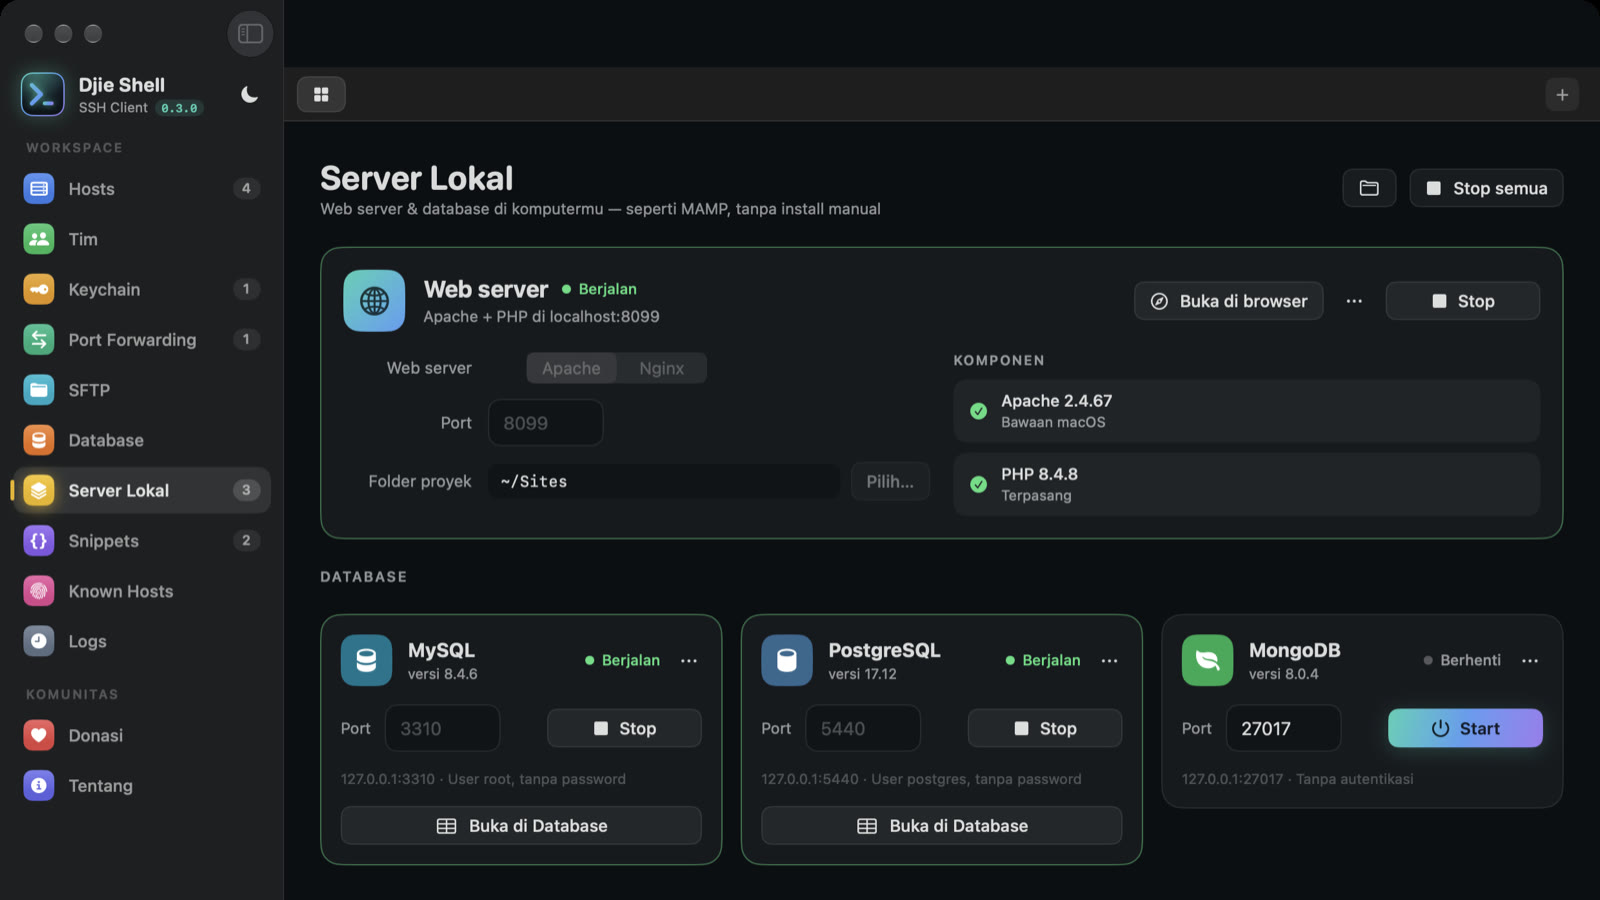
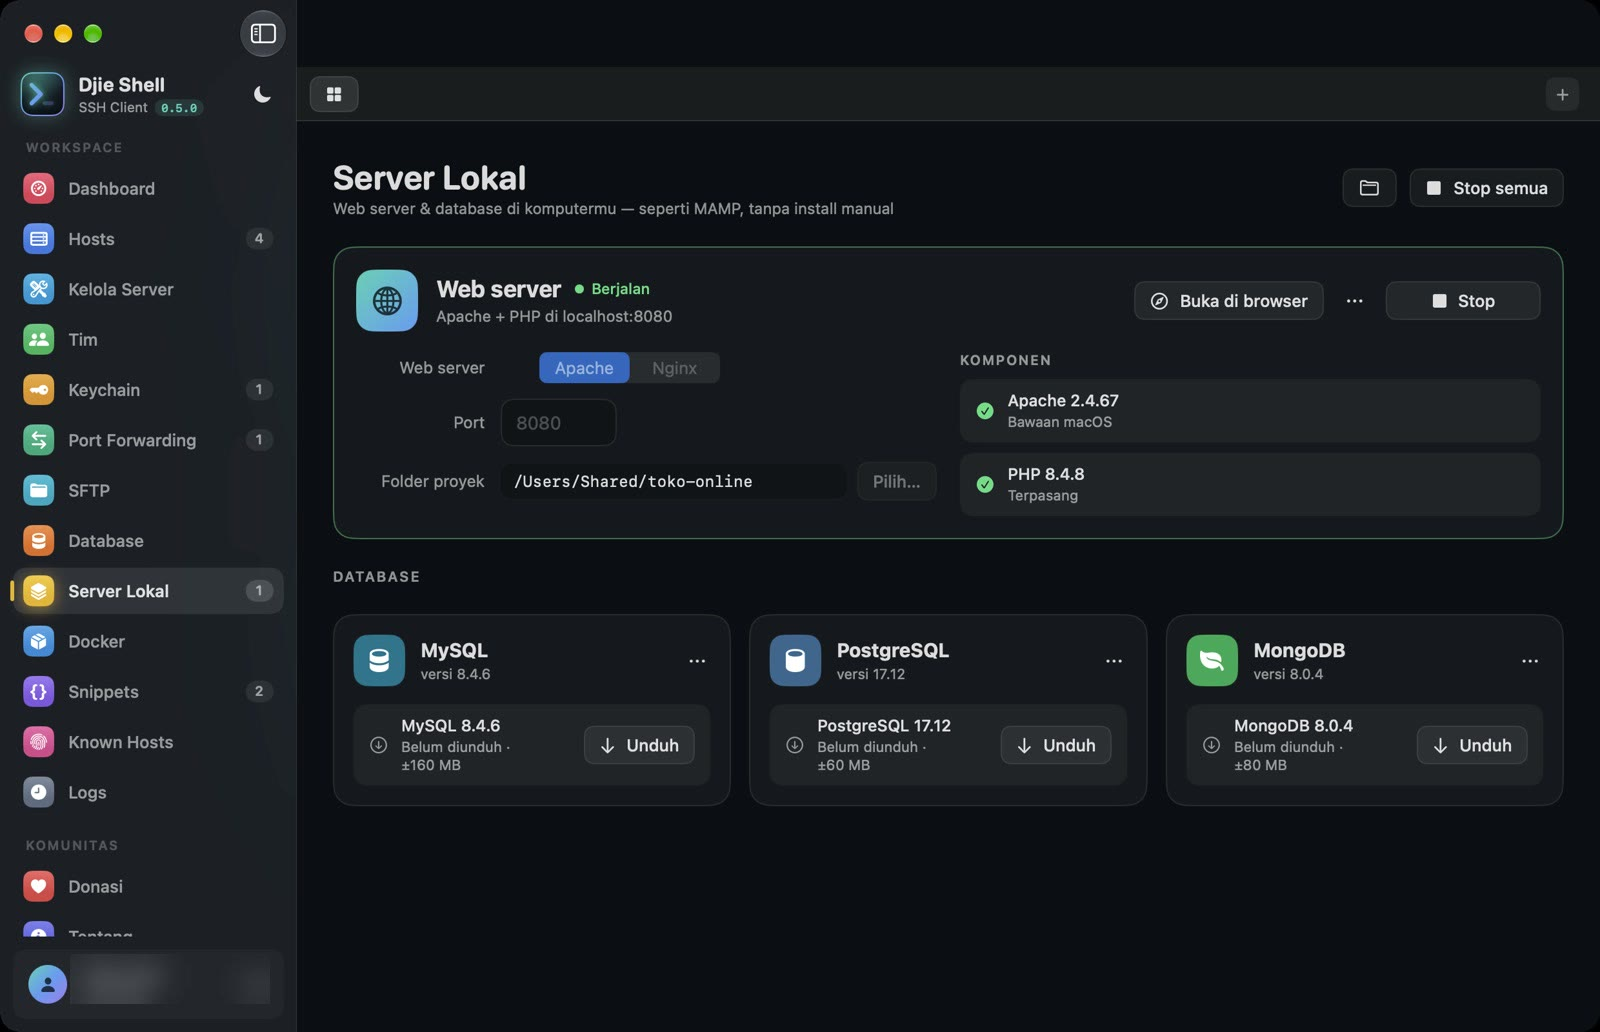
README & website: fresh macOS screenshots for every feature (v0.5 sidebar, demo data); broadcast no longer forwards terminal auto-replies to other panes; demo hooks for screenshots

diff --git a/apps/macos/DjieShell/Core/AppModel.swift b/apps/macos/DjieShell/Core/AppModel.swift
@@ -332,6 +332,14 @@ final class AppModel {
                 }
             }
         }
+        // DJIE_DEMO_CONNECT=judul host : buka terminal; DJIE_DEMO_INFO=1 panel Info server; DJIE_DEMO_CONNECT_TYPE = ketikan (\r = Enter)
+        if let name = env["DJIE_DEMO_CONNECT"], let h = hosts.first(where: { $0.title == name }) {
+            connect([h.id])
+            if env["DJIE_DEMO_INFO"] != nil { DispatchQueue.main.asyncAfter(deadline: .now() + 1) { [self] in showServerInfo = true; syncServerStats() } }
+            if let typed = env["DJIE_DEMO_CONNECT_TYPE"] {
+                DispatchQueue.main.asyncAfter(deadline: .now() + 8) { [self] in activeTerminalView?.send(txt: typed.replacingOccurrences(of: "\\r", with: "\r")) }
+            }
+        }
         // DJIE_DEMO_ADMIN=judul host, DJIE_DEMO_ADMIN_TAB=processes|services|cron|logs, DJIE_DEMO_ADMIN_SERVICE=nama
         if let name = env["DJIE_DEMO_ADMIN"], let h = hosts.first(where: { $0.title == name }) {
             section = .serverAdmin
@@ -400,6 +408,10 @@ final class AppModel {
         if let list = env["DJIE_DEMO_STACK"] {
             section = .localServer
             Task {
+                // DJIE_DEMO_STACK_DOCROOT=folder proyek; DJIE_DEMO_STACK_INSTALL=php,... unduh komponen dulu
+                if let root = env["DJIE_DEMO_STACK_DOCROOT"] { stack.settings.docRoot = root; stack.saveSettings() }
+                for id in (env["DJIE_DEMO_STACK_INSTALL"] ?? "").split(separator: ",") { stack.install(String(id)) }
+                for _ in 0..<600 where !stack.downloads.isEmpty { try? await Task.sleep(for: .milliseconds(200)) }
                 for s in list.split(separator: ",") { await stack.toggle(String(s)) }
                 // DJIE_DEMO_STACK_OPENDB=postgres : buka koneksi lokal di halaman Database
                 if let db = env["DJIE_DEMO_STACK_OPENDB"], let svc = stack.service(db) {
@@ -997,8 +1009,16 @@ final class AppModel {
     }
 
     /// Teruskan ketikan dari satu panel ke panel split lain (saat broadcast menyala).
+    /// Balasan otomatis terminal (laporan posisi kursor, atribut perangkat, warna OSC, fokus) — bukan ketikan,
+    /// jadi tidak boleh ikut di-broadcast ke panel lain.
+    static func isTerminalReply(_ data: ArraySlice<UInt8>) -> Bool {
+        guard data.count >= 3, data.first == 0x1B else { return false }
+        let s = String(decoding: data, as: UTF8.self)
+        return s.range(of: #"^(\e\[\??[0-9;]*[Rcn]|\e\[[>=?][0-9;]*c|\e\][0-9]+;[^\a\e]*(\a|\e\\)|\e\[[IO]|\e\[\??[0-9;]*\$y|\eP[^\e]*\e\\)+$"#, options: .regularExpression) != nil
+    }
+
     func broadcastInput(from source: TerminalSession, data: ArraySlice<UInt8>) {
-        guard broadcast, !broadcasting, splitVisible, splitIDs.contains(source.id) else { return }
+        guard broadcast, !broadcasting, splitVisible, splitIDs.contains(source.id), !Self.isTerminalReply(data) else { return }
         broadcasting = true
         defer { broadcasting = false }
         for s in sessions where s.id != source.id && splitIDs.contains(s.id) {

diff --git a/site/index.html b/site/index.html
@@ -454,7 +454,7 @@
           <div><span class="k" data-i18n="sp.k3">Pintasan</span><span class="v" data-i18n="sp.v3">⌘D / Ctrl+Shift+D split · ⇧⌘B / Ctrl+Shift+B broadcast</span></div>
         </div>
       </div>
-      <div class="shot reveal"><img src="assets/screens/split.jpg" alt="Tiga terminal berdampingan dengan broadcast aktif" loading="lazy" width="1600" height="900" /></div>
+      <div class="shot reveal"><img src="assets/screens/split.jpg" alt="Tiga terminal berdampingan dengan broadcast aktif" loading="lazy" width="1600" height="1032" /></div>
     </div>
   </section>
 
@@ -471,7 +471,7 @@
           <div><span class="k" data-i18n="tm.k4">Keluarkan</span><span class="v" data-i18n="tm.v4">Akses dicabut dan kunci tim langsung diganti</span></div>
         </div>
       </div>
-      <div class="shot reveal"><img src="assets/screens/team.jpg" alt="Halaman Tim di Djie Shell: anggota dan host yang dibagikan" loading="lazy" width="1300" height="838" /></div>
+      <div class="shot reveal"><img src="assets/screens/team.jpg" alt="Halaman Tim di Djie Shell: anggota dan host yang dibagikan" loading="lazy" width="1600" height="1032" /></div>
     </div>
   </section>
 
@@ -570,7 +570,7 @@
           <div><span class="k" data-i18n="sl.k4">Unduh sesuai butuh</span><span class="v" data-i18n="sl.v4">Hanya komponen yang kamu pakai; Apache bawaan macOS dipakai langsung</span></div>
         </div>
       </div>
-      <div class="shot reveal"><img src="assets/screens/local-server.jpg" alt="Server Lokal di Djie Shell: Apache + PHP, MySQL, PostgreSQL, MongoDB" loading="lazy" width="1600" height="900" /></div>
+      <div class="shot reveal"><img src="assets/screens/local-server.jpg" alt="Server Lokal di Djie Shell: Apache + PHP, MySQL, PostgreSQL, MongoDB" loading="lazy" width="1600" height="1032" /></div>
     </div>
   </section>
 
@@ -587,7 +587,7 @@
           <div><span class="k">Compose</span><span class="v" data-i18n="dk.v4">Up, restart, stop, down per proyek; bersihkan image & volume</span></div>
         </div>
       </div>
-      <div class="shot reveal"><img src="assets/screens/docker.jpg" alt="Halaman Docker di Djie Shell: container per proyek Compose dengan CPU dan RAM live" loading="lazy" width="1600" height="900" /></div>
+      <div class="shot reveal"><img src="assets/screens/docker.jpg" alt="Halaman Docker di Djie Shell: container per proyek Compose dengan CPU dan RAM live" loading="lazy" width="1600" height="1032" /></div>
     </div>
   </section>
 

diff --git a/apps/windows/DjieShell/Core/AppModel.cs b/apps/windows/DjieShell/Core/AppModel.cs
@@ -1044,9 +1044,14 @@ internal sealed class AppModel
     }
 
     /// <summary>Teruskan ketikan dari satu panel ke panel split lain (saat broadcast menyala).</summary>
+    /// <summary>Balasan otomatis terminal (laporan posisi kursor, atribut perangkat, warna OSC, fokus) — bukan ketikan, jadi tidak di-broadcast.</summary>
+    private static readonly System.Text.RegularExpressions.Regex TerminalReply = new(
+        @"^(\x1b\[\??[0-9;]*[Rcn]|\x1b\[[>=?][0-9;]*c|\x1b\][0-9]+;[^\x07\x1b]*(\x07|\x1b\\)|\x1b\[[IO]|\x1b\[\??[0-9;]*\$y|\x1bP[^\x1b]*\x1b\\)+$");
+    public static bool IsTerminalReply(string data) => data.Length >= 3 && data[0] == '\x1b' && TerminalReply.IsMatch(data);
+
     public void BroadcastInput(TerminalSession source, string data)
     {
-        if (!Broadcast || !SplitVisible || !SplitIds.Contains(source.Id)) return;
+        if (!Broadcast || !SplitVisible || !SplitIds.Contains(source.Id) || IsTerminalReply(data)) return;
         foreach (var s in Sessions)
             if (s != source && SplitIds.Contains(s.Id) && s.State != TerminalSession.Status.Disconnected) s.WriteInput(data);
     }

diff --git a/CHANGELOG.md b/CHANGELOG.md
@@ -8,6 +8,9 @@ Download versi terbaru: [Releases](https://github.com/masadjie/djie-shell/releas
 
 ## [Unreleased]
 
+### Diperbaiki
+- Broadcast terminal tidak lagi meneruskan balasan otomatis terminal (mis. laporan posisi kursor `ESC[10;10R`) ke panel lain — sebelumnya bisa muncul teks aneh seperti `;10R` di server lain (macOS & Windows)
+
 ## [0.5.0] — 2026-11-21
 
 Rilis terbesar sejauh ini: Dashboard semua server, Kelola Server, backup database, Docker, split & broadcast, dan versi Linux (beta).
